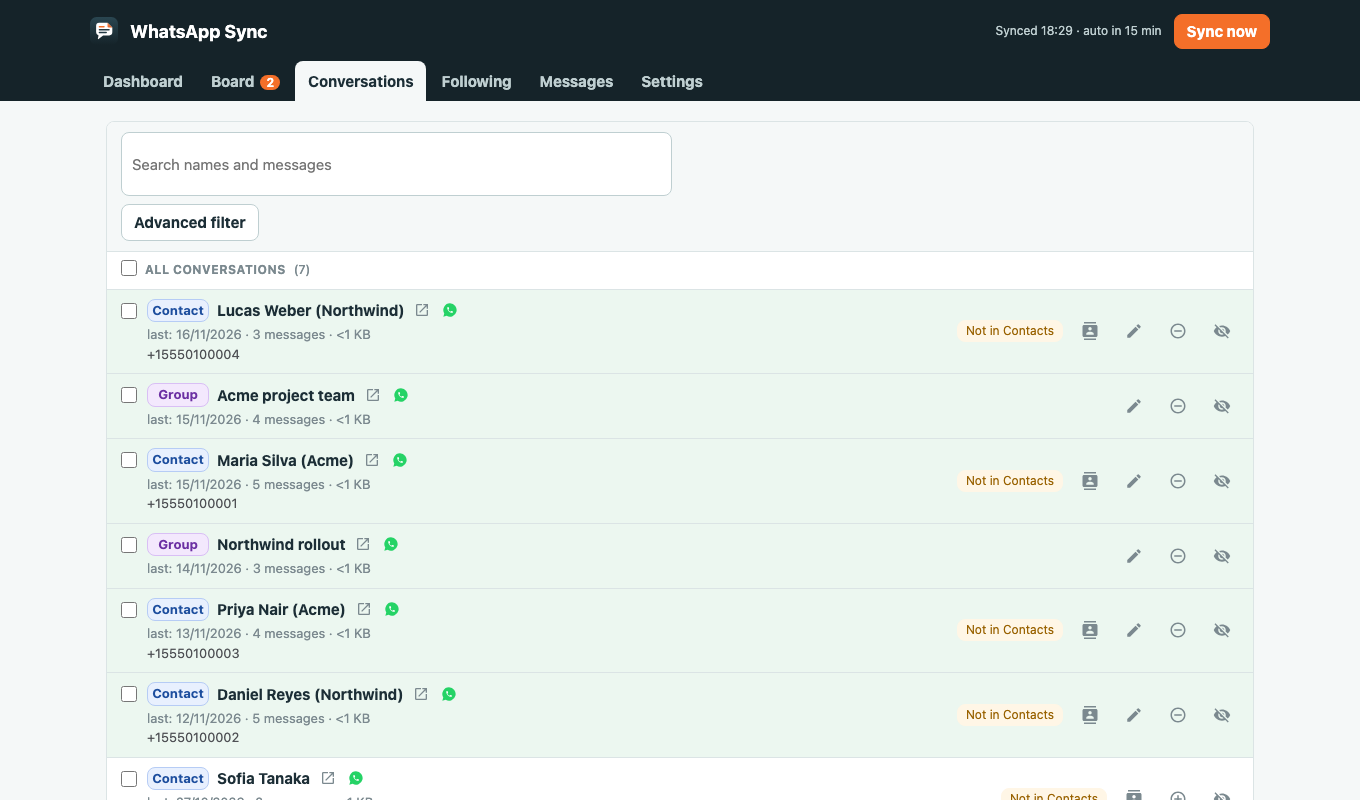
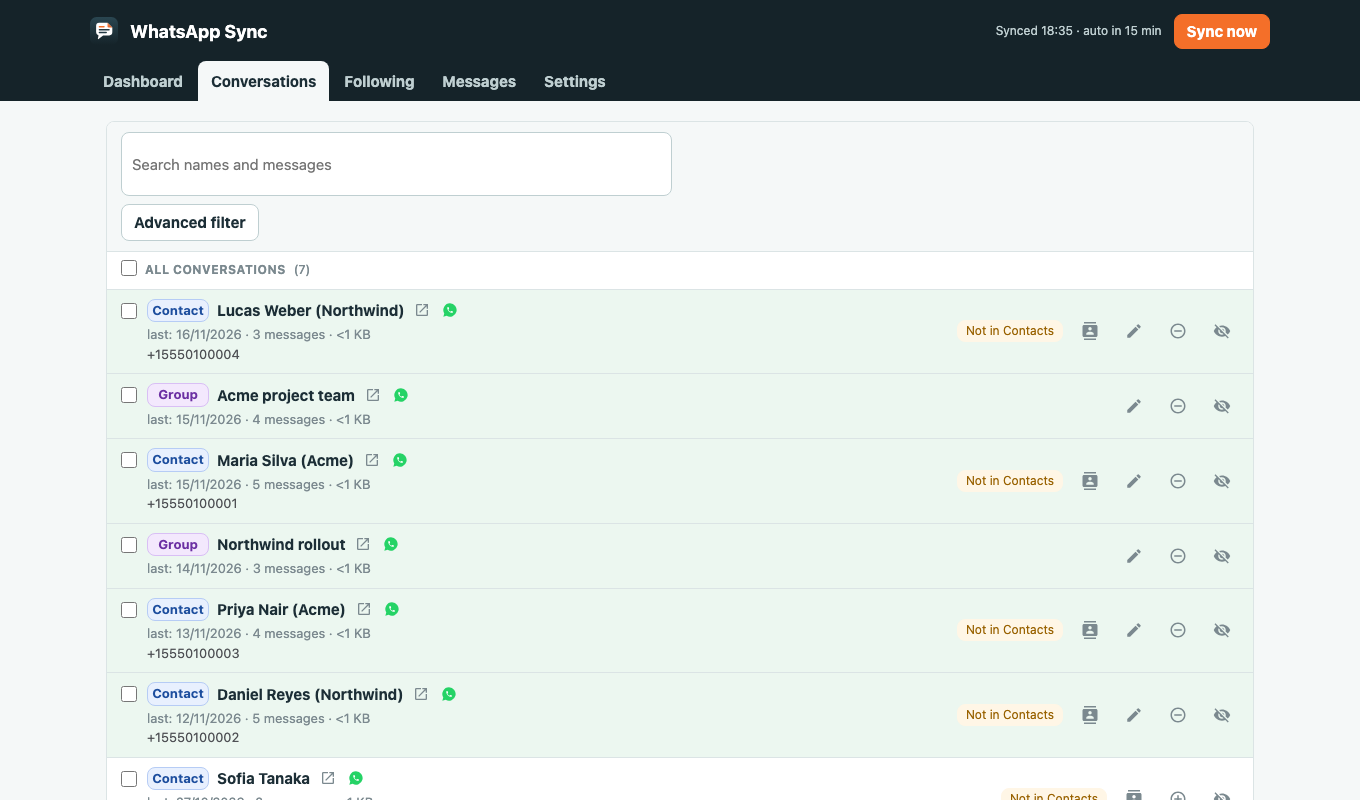
Remove the Board feature from the UI (code kept) and update the page
Disable the Board tab, the Following list/board switch, the dashboard
links to the board and the board stage fields. Refresh the demo
screenshots and drop the Board section from the page and README.

Changed region(s): [[0.1235, 0.0625, 0.525, 0.125]]

diff --git a/app.html b/app.html
@@ -674,7 +674,7 @@ body.locked nav,body.locked #sync,body.locked #last,body.locked main>section,bod
 <div id="bulk" role="region" aria-label="Actions for the selected conversations"></div>
 <div id="pendbar" role="region" aria-label="Contact fixes waiting to be applied"></div>
 <script>
-const TABS = [['painel', 'Dashboard'], ['quadro', 'Board'], ['adicionar', 'Conversations'], ['conversas', 'Following'], ['mapa', 'Map'], ['mensagens', 'Messages'], ['config', 'Settings']];
+const TABS = [['painel', 'Dashboard'], /* Board tab disabled: ['quadro', 'Board'], */ ['adicionar', 'Conversations'], ['conversas', 'Following'], ['mapa', 'Map'], ['mensagens', 'Messages'], ['config', 'Settings']];
 // the address shows the menu name (#conversations); the code keeps its own ids
 const SLUG = Object.fromEntries(TABS.map(([id, name]) => [id, name.toLowerCase()]));
 const UNSLUG = Object.fromEntries(TABS.map(([id, name]) => [name.toLowerCase(), id]));
@@ -1258,7 +1258,7 @@ function openConv(chave, foco) {
   if (c.desde == null) lh.append(el('span', 'h', 'This conversation was added before per-conversation dates existed; pick a date to rebuild the history.'));
   const sel = [...c.assuntos];
   const et = el('select'); et.title = 'This conversation\'s column on the board'; et.append(...etapas.map(e => new Option(e, e))); et.value = c.etapa; et.onchange = () => save({etapa: et.value});
-  const lt = el('label', null, 'Board stage'); lt.append(et);
+  const lt = el('label', null, 'Board stage'); lt.append(et); lt.style.display = 'none';   // Board disabled
   // folders: own folders + the folders of its topics, one per line; tick several and delete
   const where = el('div'); where.style.display = 'grid'; where.style.gap = '8px';
   const drawWhere = () => {
@@ -1713,7 +1713,7 @@ function openBulk(list) {
   const et = keepSel(etapas.map(e => [e, e]), 'Board column');
   const mo = keepSel([['', `Default (${label(MODELS, padrao.modelo)})`], ...MODELS], 'Claude model for drafts');
   const ef = keepSel([['', 'Default' + (padrao.esforco ? ` (${label(EFFORTS, padrao.esforco)})` : '')], ...EFFORTS], 'How much Claude thinks before answering');
-  line('.md files in the folder', rp); line('.md files in subfolders', rs); line('Board stage', et); line('Claude model', mo); line('Effort', ef);
+  line('.md files in the folder', rp); line('.md files in subfolders', rs); line('Claude model', mo); line('Effort', ef);
   mb.append(grid); more.append(ms, mb);
   const ok = btn('Apply', async () => {
     const b = {chaves: keys};
@@ -2009,6 +2009,7 @@ function renderQuadro() {
 // Following tab: the topics as a list (cards) or as a board (one column per destination)
 let fview = 'lista';
 function renderFview() {
+  fview = 'lista'; $('fview').style.display = 'none';   // Board view disabled (code kept below)
   $('fview').replaceChildren(...[['lista', 'List', 'Topics as cards with their followed conversations and suggestions'], ['board', 'Board', 'One column per destination, like the Board tab "By destination". Drag a card to change its destination.']]
     .map(([k, n, tip]) => btn(n, () => { fview = k; pref('fview', k); renderFview(); }, fview === k ? 'on' : '', tip)));
   const b = fview === 'board';
@@ -2459,8 +2460,8 @@ function renderPainel() {
     kpis: () => {
       const kp = el('div', 'kpis');
       kp.append(
-        kpi('To reply', num(d.devo), d.devo ? 'waiting for you over ' + d.pendencia_horas + ' h' : 'nothing pending', 'Conversations whose last message is from the other person. Click to see on the board.', d.devo > 0, () => { modo = 'situacao'; pref('modo', modo); go('quadro'); }),
-        kpi('Waiting for reply', num(d.devem), 'the last message is yours', 'Conversations where you wrote last and got no reply. Click to see on the board.', false, () => { modo = 'situacao'; pref('modo', modo); go('quadro'); }),
+        kpi('To reply', num(d.devo), d.devo ? 'waiting for you over ' + d.pendencia_horas + ' h' : 'nothing pending', 'Conversations whose last message is from the other person. ', d.devo > 0),
+        kpi('Waiting for reply', num(d.devem), 'the last message is yours', 'Conversations where you wrote last and got no reply. ', false),
         kpi('Received', num(d.rec), delta(d.rec, d.rec_antes), `Messages received in the last ${d.dias} days`),
         kpi('Sent', num(d.env), delta(d.env, d.env_antes), `Messages you sent in the last ${d.dias} days`),
         kpi('Your response time', fmtMin(d.resp_min), d.respostas ? `median of ${num(d.respostas)} replies` : 'no replies in the period', 'Median time between the other person\'s message and your reply (one-to-one chats)'),

diff --git a/docs/index.html b/docs/index.html
@@ -161,19 +161,15 @@ pre .d { color: var(--gray-500); }
     <div class="screens">
       <div class="screen">
         <div class="txt"><h3>Dashboard</h3><p>Totals, conversations waiting for your reply, response times and a chart of daily activity. Reorder or hide widgets to fit your routine.</p></div>
-        <div class="frame"><img src="img/dashboard.png" alt="Dashboard screen" width="1360" height="800" loading="lazy"></div>
-      </div>
-      <div class="screen">
-        <div class="txt"><h3>Board</h3><p>Followed conversations as cards. Drag them across your own stages, or group them by status.</p></div>
-        <div class="frame"><img src="img/board.png" alt="Board screen with four columns: New, In progress, Waiting and Done" width="1360" height="520" loading="lazy"></div>
+        <div class="frame"><img src="img/dashboard.png" alt="Dashboard screen" width="1360" height="800"></div>
       </div>
       <div class="screen">
         <div class="txt"><h3>Conversations</h3><p>Search every chat by name or by what was said, then follow the ones you want. Followed chats are highlighted.</p></div>
-        <div class="frame"><img src="img/conversations.png" alt="Conversations screen listing chats with Follow controls" width="1360" height="800" loading="lazy"></div>
+        <div class="frame"><img src="img/conversations.png" alt="Conversations screen listing chats with Follow controls" width="1360" height="800"></div>
       </div>
       <div class="screen">
         <div class="txt"><h3>Messages</h3><p>Read the followed conversations in a familiar chat layout and search inside them.</p></div>
-        <div class="frame"><img src="img/messages.png" alt="Messages screen showing a conversation in a chat layout" width="1360" height="700" loading="lazy"></div>
+        <div class="frame"><img src="img/messages.png" alt="Messages screen showing a conversation in a chat layout" width="1360" height="700"></div>
       </div>
     </div>
     <p class="note">Screens show demo data, not real conversations.</p>

diff --git a/README.md b/README.md
@@ -91,7 +91,6 @@ installations** should list your WhatsApp with a number of conversations.
 | Tab | What it is for |
 |---|---|
 | **Dashboard** | Totals, who is waiting for your reply, activity charts. **Customize** reorders or hides widgets. |
-| **Board** | Followed conversations as cards, by stage, destination or status. |
 | **Conversations** | Search all of WhatsApp (names and message text) and follow chats. |
 | **Following** | Your topics, their folders and keywords, and where each conversation is written. Red = nothing is written. |
 | **Messages** | Read followed conversations WhatsApp-style and search them. |
